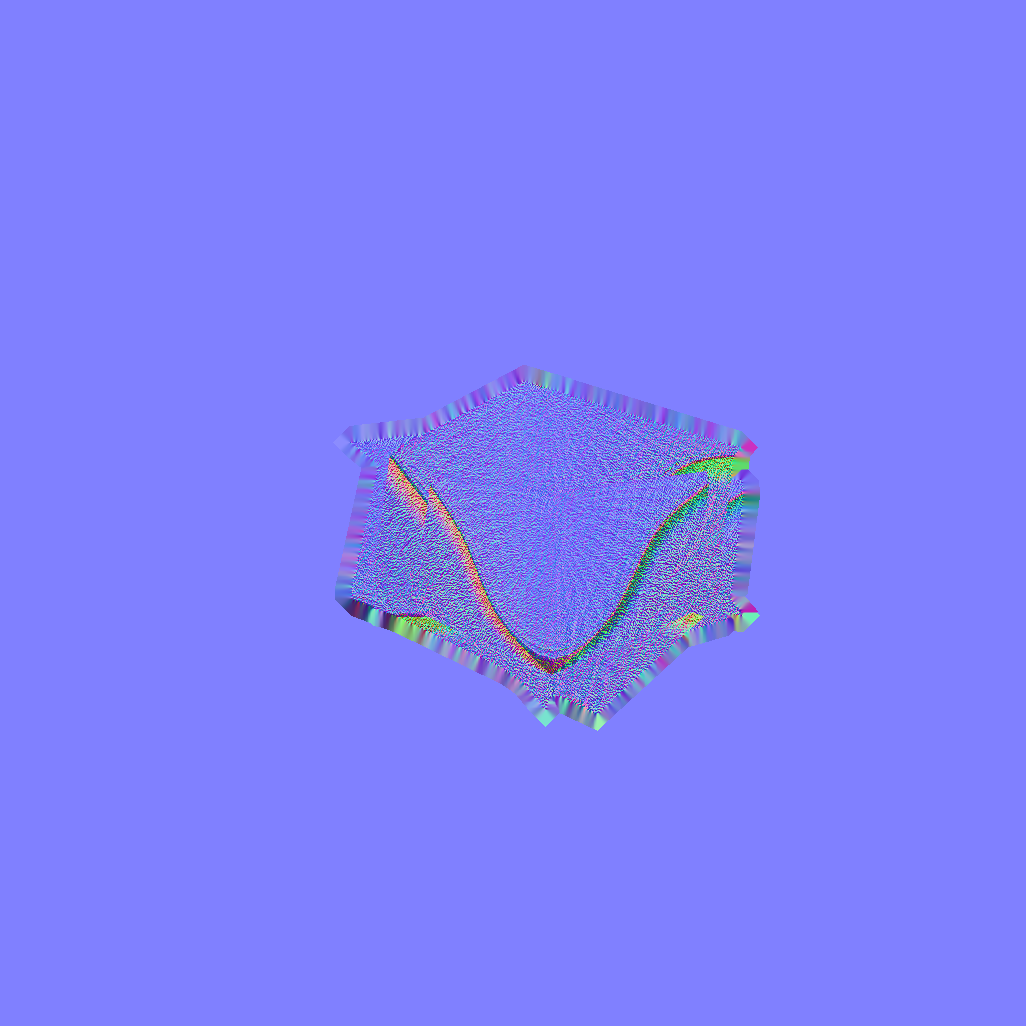
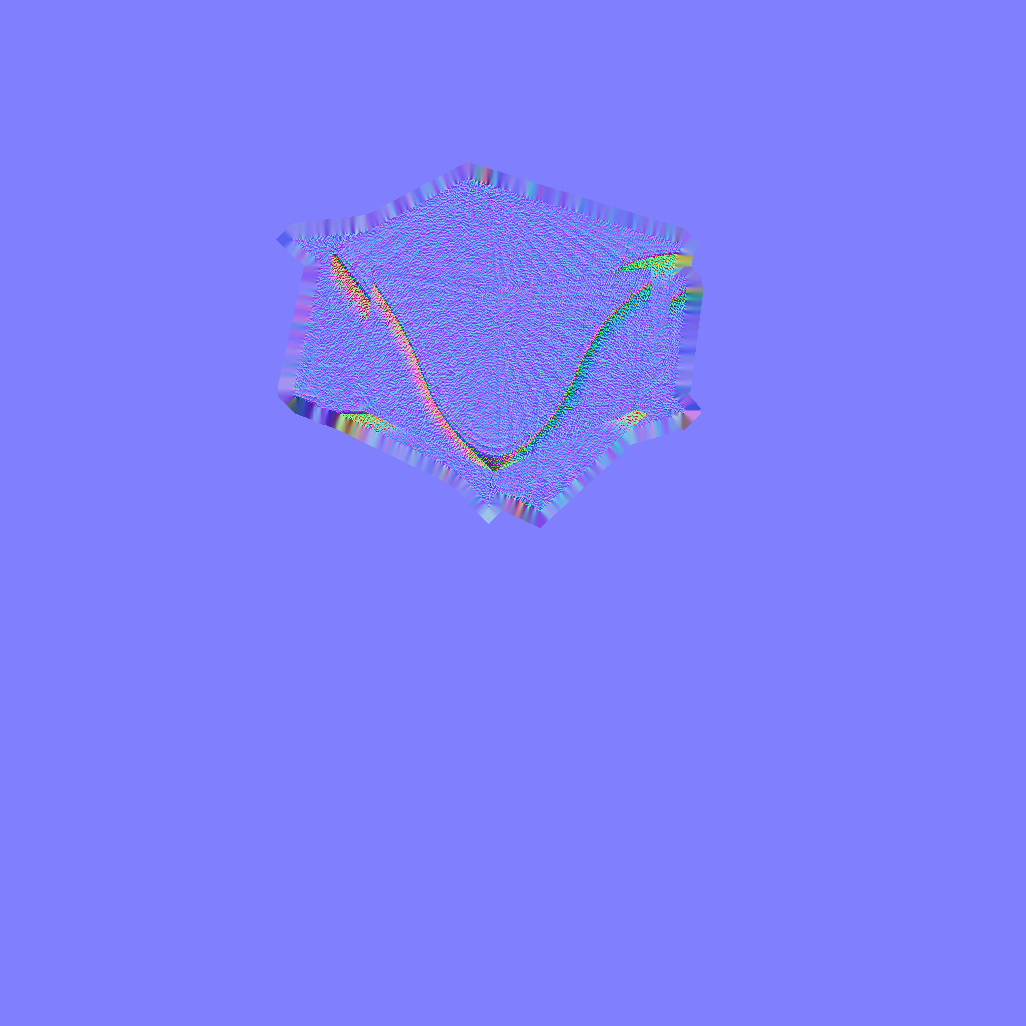
Restore pistil normal map with Irma's re-baked version

Changed region(s): [[0.2495, 0.1559, 0.7485, 0.7173]]

diff --git a/main.js b/main.js
@@ -35,9 +35,9 @@ heroGroup.add(flower);
 let bloom = 0.001; // target scale: grows to 1 once the model has loaded
 
 // Tulip with Irma's petal + pistil textures; the OBJ's two materials ("Petal._Yellow", "Pistill")
-// each get their own colour map (+ normal map on the petals). Textures load alongside the mesh.
+// each get their own colour + normal map. Textures load alongside the mesh.
 // Bump MODEL_V whenever a file in renders/models changes, so browsers skip their cached copy.
-const MODEL_V = 4;
+const MODEL_V = 5;
 const texLoader = new THREE.TextureLoader();
 const loadTex = (url, srgb) => texLoader.loadAsync(url).then((t) => {
   if (srgb) t.colorSpace = THREE.SRGBColorSpace;
@@ -50,7 +50,8 @@ Promise.all([
   loadTex(`${M}/Tulip_Petal_Diffuse.png?v=${MODEL_V}`, true),
   loadTex(`${M}/Tulip_Petal_Normal.png?v=${MODEL_V}`, false),
   loadTex(`${M}/Pistill_Diffuse.png?v=${MODEL_V}`, true),
-]).then(([obj, petalMap, petalNormal, pistilMap]) => {
+  loadTex(`${M}/Pistill_Normals.png?v=${MODEL_V}`, false),
+]).then(([obj, petalMap, petalNormal, pistilMap, pistilNormal]) => {
   const box = new THREE.Box3().setFromObject(obj);
   const size = box.getSize(new THREE.Vector3());
   const petal = new THREE.MeshPhysicalMaterial({
@@ -58,9 +59,9 @@ Promise.all([
     roughness: 0.6, side: THREE.DoubleSide,
     sheen: 0.6, sheenRoughness: 0.5, sheenColor: new THREE.Color(0xf6e7c4),
   });
-  // No pistil normal map for now: Pistill_Normals.png was baked for the old UV layout.
   const pistil = new THREE.MeshStandardMaterial({
-    map: pistilMap, roughness: 0.7, side: THREE.DoubleSide,
+    map: pistilMap, normalMap: pistilNormal, normalScale: new THREE.Vector2(0.5, 0.5),
+    roughness: 0.7, side: THREE.DoubleSide,
   });
   const pick = (m) => (m.name === 'Pistill' ? pistil : petal);
   obj.traverse((m) => {

diff --git a/index.html b/index.html
@@ -148,6 +148,6 @@
 
 <footer class="mono">© <span id="year"></span> Irma Andersson · Botanical &amp; beauty 3D</footer>
 
-<script type="module" src="main.js?v=12"></script>
+<script type="module" src="main.js?v=13"></script>
 </body>
 </html>
